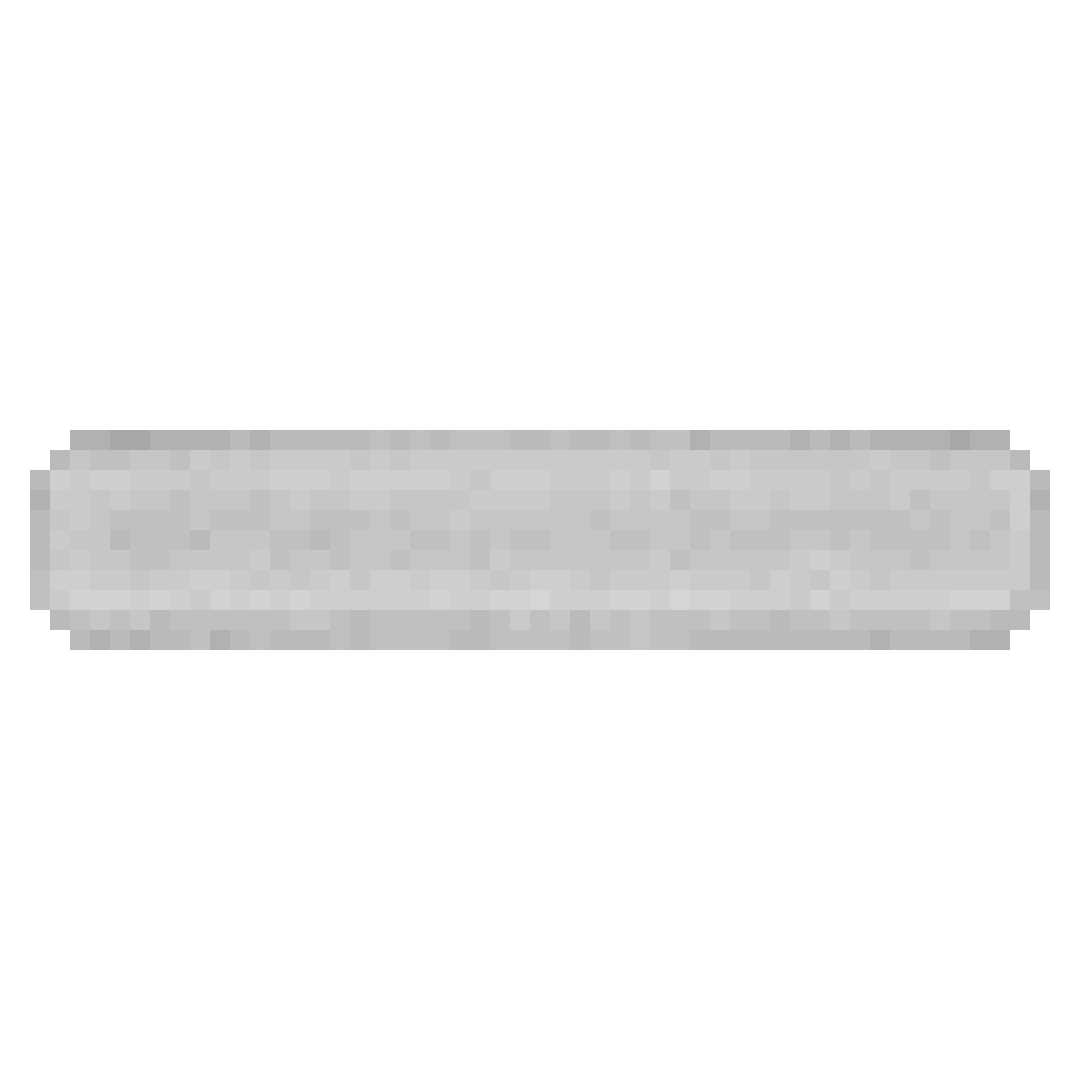
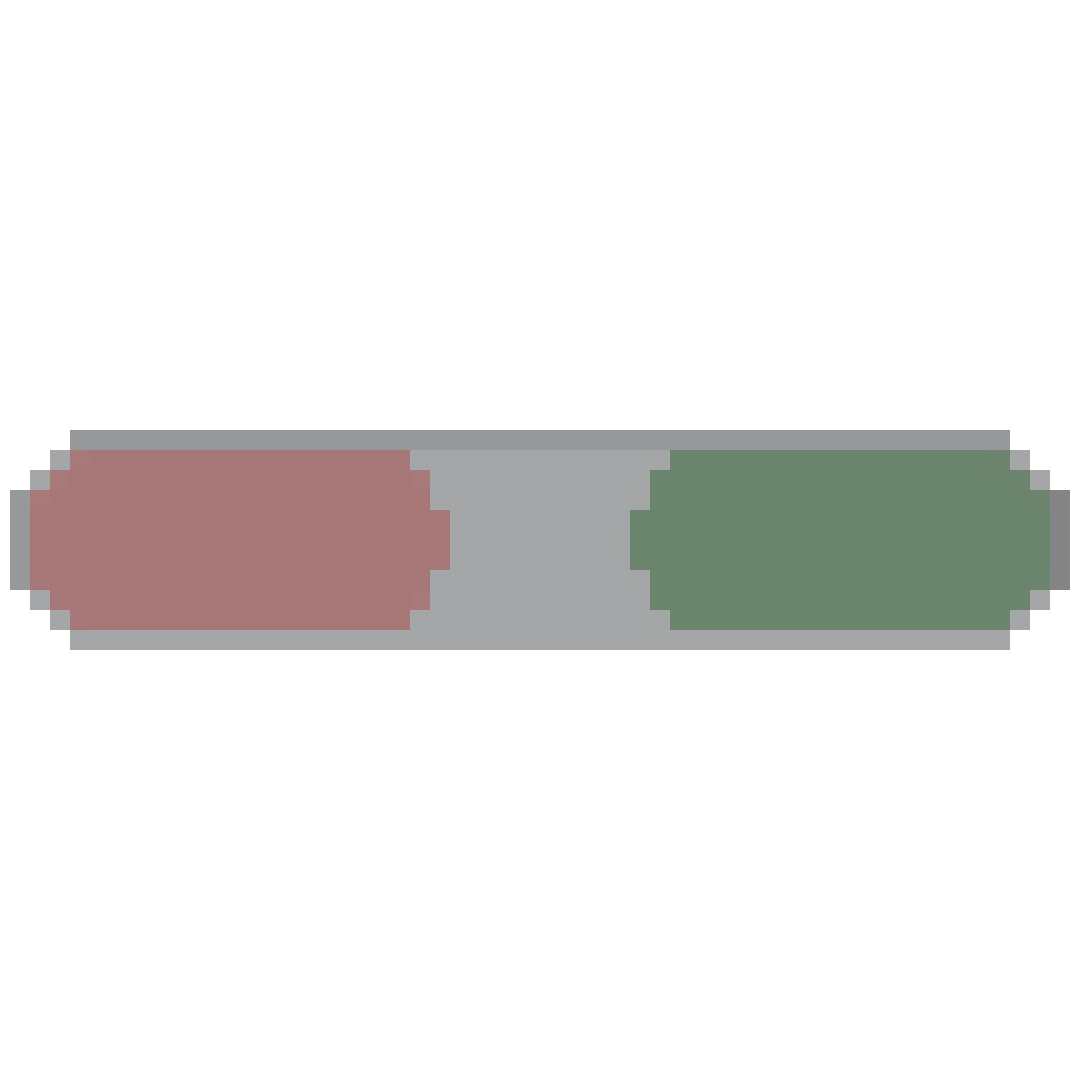
more targetting ui improvements

Changed region(s): [[0.0, 0.3972, 1.0, 0.6111]]

diff --git a/Assets/Scripts/UI/AttackTargetSelector.cs b/Assets/Scripts/UI/AttackTargetSelector.cs
@@ -43,6 +43,52 @@ public class AttackTargetSelector : MonoBehaviour {
     }
 
     public void updateView() {
+        //gets wether this is highest or not from the character or ability
+        if (isAbilityTargetSelector) {
+            switch (ability.targetStrategy) {
+                case (int)Character.targetList.HighestASAlly:
+                case (int)Character.targetList.HighestASEnemy:
+                case (int)Character.targetList.HighestHPAlly:
+                case (int)Character.targetList.HighestHPEnemy:
+                case (int)Character.targetList.HighestMDAlly:
+                case (int)Character.targetList.HighestMDEnemy:
+                case (int)Character.targetList.HighestMSAlly:
+                case (int)Character.targetList.HighestMSEnemy:
+                case (int)Character.targetList.HighestPDAlly:
+                case (int)Character.targetList.HighestPDEnemy:
+                case (int)Character.targetList.HighestRangeAlly:
+                case (int)Character.targetList.HighestRangeEnemy:
+
+                    highest = true;
+                    break;
+                default:
+                    highest = false;
+                    break;
+            }
+        }
+        else {
+            switch (character.attackTargetStrategy) {
+                case (int)Character.targetList.HighestASAlly:
+                case (int)Character.targetList.HighestASEnemy:
+                case (int)Character.targetList.HighestHPAlly:
+                case (int)Character.targetList.HighestHPEnemy:
+                case (int)Character.targetList.HighestMDAlly:
+                case (int)Character.targetList.HighestMDEnemy:
+                case (int)Character.targetList.HighestMSAlly:
+                case (int)Character.targetList.HighestMSEnemy:
+                case (int)Character.targetList.HighestPDAlly:
+                case (int)Character.targetList.HighestPDEnemy:
+                case (int)Character.targetList.HighestRangeAlly:
+                case (int)Character.targetList.HighestRangeEnemy:
+
+                    highest = true;
+                    break;
+                default:
+                    highest = false;
+                    break;
+            }
+        }
+        
         removeHighlights();
         //if the current target to be modified is for ability then use ability.TargetStrategy for display otherwise use character.attacktargetstrategy
         int targetStrategy;
@@ -56,6 +102,8 @@ public class AttackTargetSelector : MonoBehaviour {
                 foreach (TargetOptionButton temp in buttons) {
                     if (temp.stat == "Closest") {
                         temp.highlightEnemy();
+                        temp.currentlySelectedBtn = true;
+                        temp.enemySelected = true;
                     }
                 }
                     break;
@@ -64,6 +112,8 @@ public class AttackTargetSelector : MonoBehaviour {
                 foreach (TargetOptionButton temp in buttons) {
                     if (temp.stat == "PD") {
                         temp.highlightEnemy();
+                        temp.currentlySelectedBtn = true;
+                        temp.enemySelected = true;
                     }
                 }
                 break;
@@ -72,6 +122,8 @@ public class AttackTargetSelector : MonoBehaviour {
                 foreach (TargetOptionButton temp in buttons) {
                     if (temp.stat == "AS") {
                         temp.highlightEnemy();
+                        temp.currentlySelectedBtn = true;
+                        temp.enemySelected = true;
                     }
                 }
                 break;
@@ -80,6 +132,8 @@ public class AttackTargetSelector : MonoBehaviour {
                 foreach (TargetOptionButton temp in buttons) {
                     if (temp.stat == "MD") {
                         temp.highlightEnemy();
+                        temp.currentlySelectedBtn = true;
+                        temp.enemySelected = true;
                     }
                 }
                 break;
@@ -88,6 +142,8 @@ public class AttackTargetSelector : MonoBehaviour {
                 foreach (TargetOptionButton temp in buttons) {
                     if (temp.stat == "MS") {
                         temp.highlightEnemy();
+                        temp.currentlySelectedBtn = true;
+                        temp.enemySelected = true;
                     }
                 }
                 break;
@@ -96,6 +152,8 @@ public class AttackTargetSelector : MonoBehaviour {
                 foreach (TargetOptionButton temp in buttons) {
                     if (temp.stat == "Range") {
                         temp.highlightEnemy();
+                        temp.currentlySelectedBtn = true;
+                        temp.enemySelected = true;
                     }
                 }
                 break;
@@ -104,6 +162,8 @@ public class AttackTargetSelector : MonoBehaviour {
                 foreach (TargetOptionButton temp in buttons) {
                     if (temp.stat == "HP") {
                         temp.highlightEnemy();
+                        temp.currentlySelectedBtn = true;
+                        temp.enemySelected = true;
                     }
                 }
                 break;
@@ -111,6 +171,8 @@ public class AttackTargetSelector : MonoBehaviour {
                 foreach (TargetOptionButton temp in buttons) {
                     if (temp.stat == "Closest") {
                         temp.highlightAlly();
+                        temp.currentlySelectedBtn = true;
+                        temp.enemySelected = false;
                     }
                 }
                 break;
@@ -119,6 +181,8 @@ public class AttackTargetSelector : MonoBehaviour {
                 foreach (TargetOptionButton temp in buttons) {
                     if (temp.stat == "PD") {
                         temp.highlightAlly();
+                        temp.currentlySelectedBtn = true;
+                        temp.enemySelected = false;
                     }
                 }
                 break;
@@ -127,6 +191,8 @@ public class AttackTargetSelector : MonoBehaviour {
                 foreach (TargetOptionButton temp in buttons) {
                     if (temp.stat == "MD") {
                         temp.highlightAlly();
+                        temp.currentlySelectedBtn = true;
+                        temp.enemySelected = false;
                     }
                 }
                 break;
@@ -135,6 +201,8 @@ public class AttackTargetSelector : MonoBehaviour {
                 foreach (TargetOptionButton temp in buttons) {
                     if (temp.stat == "AS") {
                         temp.highlightAlly();
+                        temp.currentlySelectedBtn = true;
+                        temp.enemySelected = false;
                     }
                 }
                 break;
@@ -143,6 +211,8 @@ public class AttackTargetSelector : MonoBehaviour {
                 foreach (TargetOptionButton temp in buttons) {
                     if (temp.stat == "MS") {
                         temp.highlightAlly();
+                        temp.currentlySelectedBtn = true;
+                        temp.enemySelected = false;
                     }
                 }
                 break;
@@ -151,6 +221,8 @@ public class AttackTargetSelector : MonoBehaviour {
                 foreach (TargetOptionButton temp in buttons) {
                     if (temp.stat == "Range") {
                         temp.highlightAlly();
+                        temp.currentlySelectedBtn = true;
+                        temp.enemySelected = false;
                     }
                 }
                 break;
@@ -159,6 +231,8 @@ public class AttackTargetSelector : MonoBehaviour {
                 foreach (TargetOptionButton temp in buttons) {
                     if (temp.stat == "HP") {
                         temp.highlightAlly();
+                        temp.currentlySelectedBtn = true;
+                        temp.enemySelected = false;
                     }
 
                 }

diff --git a/Assets/Scripts/UI/TargetOptionButton.cs b/Assets/Scripts/UI/TargetOptionButton.cs
@@ -19,6 +19,9 @@ public class TargetOptionButton : MonoBehaviour {
 
     public bool currentlySelectedBtn = false;
 
+    //enemy if true ally if false
+    public bool enemySelected = false;
+
     //the targetting strategy's stat
     public string stat;
 
@@ -34,11 +37,15 @@ public class TargetOptionButton : MonoBehaviour {
         //maybe animate the filling
         EnemyHighlight.fillAmount = 1;
         if (targetSelector.highest)
-            EnemyHighlight.transform.localScale = new Vector3(1, -1, 1); //Maximum
+            EnemyHighlight.transform.localScale = new Vector3(1, 1, 1); //Maximum
         else
-            EnemyHighlight.transform.localScale = new Vector3(1, 1, 1); //Minimum
+            EnemyHighlight.transform.localScale = new Vector3(1, -1, 1); //Minimum
     }
     public void selectEnemy() {
+        //if this is already the currently selected button and it is clicked again change from highest to lowest and vice versa.
+        if(currentlySelectedBtn && enemySelected) {
+            targetSelector.highest = !targetSelector.highest;
+        }
         currentlySelectedBtn = true;
         removeHighlights("ally");
         //removes highlight from all other Buttons in TargetSelector
@@ -103,6 +110,10 @@ public class TargetOptionButton : MonoBehaviour {
             AllyHighlight.transform.localScale = new Vector3(1, -1, 1); //Minimum
     }
     public void selectAlly() {
+        //if this is already the currently selected button and it is clicked again change from highest to lowest and vice versa.
+        if (currentlySelectedBtn && !enemySelected) {
+            targetSelector.highest = !targetSelector.highest;
+        }
         currentlySelectedBtn = true;
         removeHighlights("enemy");
         //removes highlight from all other Buttons in TargetSelector
